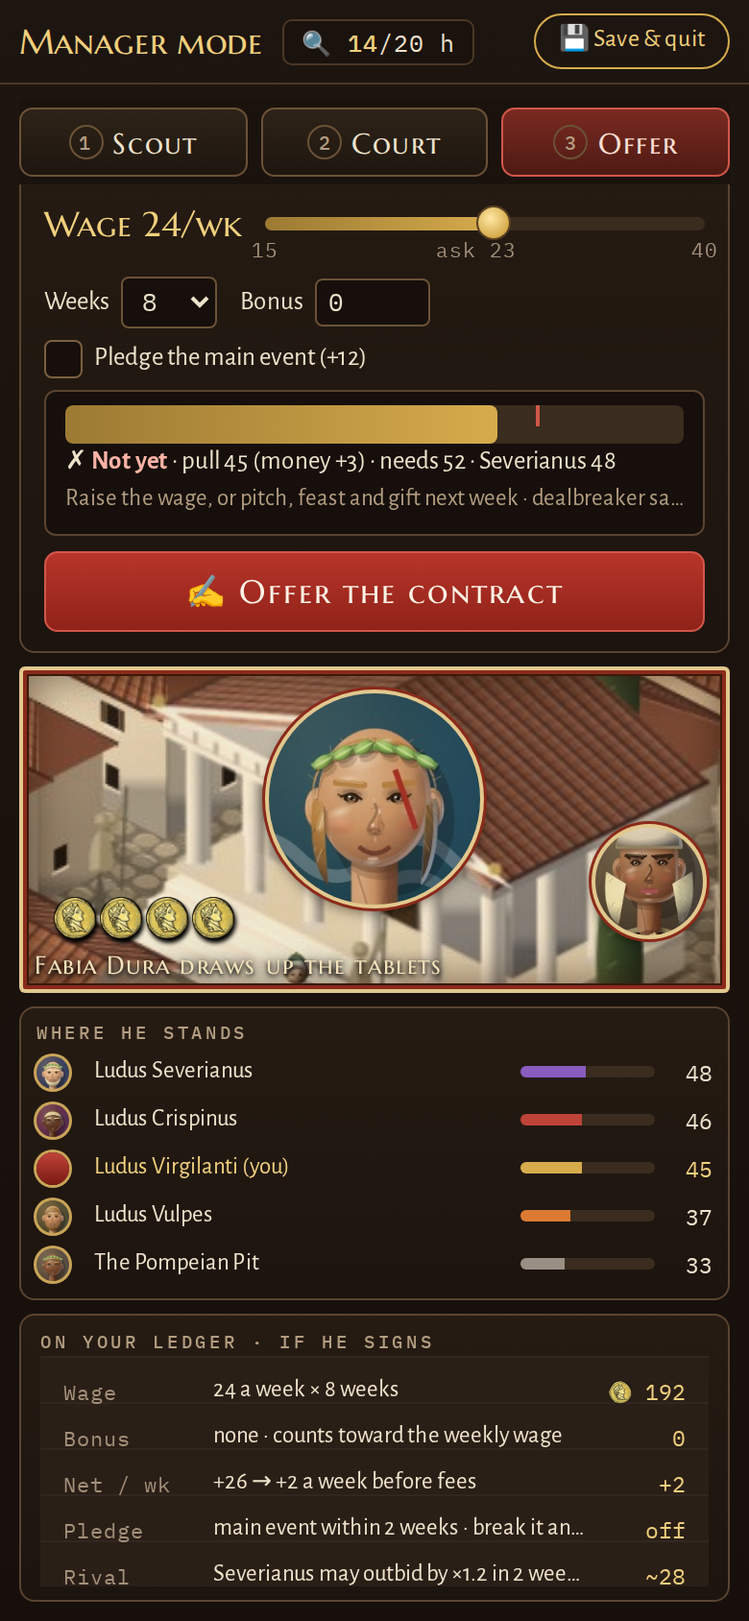
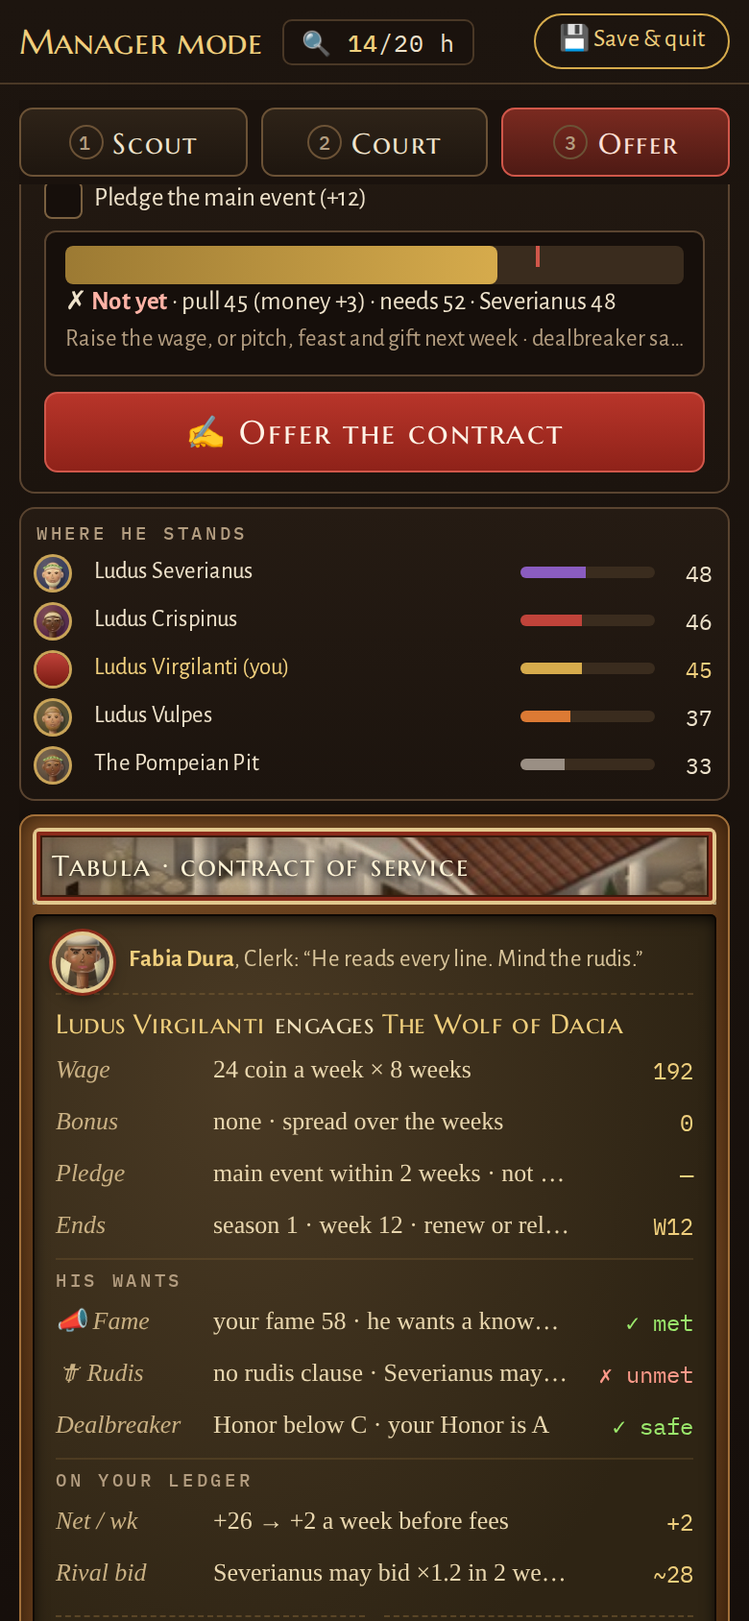
mock100: recruiting offer = contract tablet [skip ci]
Claude-Session: https://claude.ai/code/session_01BLtNGuDrMd265uhsDUPs5S

diff --git a/tools/plans/mock100/ludus.html b/tools/plans/mock100/ludus.html
@@ -5,6 +5,7 @@
 <!-- MOCK-UP ONLY (v1.0 plan, his PDF "mockludusmanager" 2026-10-09 = ludus_img/his_mock.png).
      Content = a real week-3 career (Ludus Crispinus, Capua; this week's games in Pompeii) captured by ludus_before.js.
      Tile art = the game's own room banner scenes (roomScene73 / roomScene / armoryScene96 / cityScene75) exported as SVG, cropped per tile.
+     Round 3: #week-b (no Fight Night card, parchment fills the column) · #advisors (the council room) · #mail-open (one letter read in full).
      States: #week (default, 4 tasks) · #bye (week 4, 6 tasks) · #mail (letters drawer) · #team-a (Your Team → today's Roster tab) ·
      #team-b (Your Team → one team hub with tabs; the rail loses Roster/Armory/Infirmary/Training Yard) · #rooms (the new scenes as room banners) · #phone.
      Round 2 (his answers D1–D7): tiles = one weekly job each, RICHER painted scenes (ludus_scenes.js) used as tile AND room banner.
@@ -138,7 +139,7 @@ body.s-phone #phoneFrame{display:flex;justify-content:center;padding:20px}
 .mailbtn b{font:700 10px var(--mono);background:#7a2219;color:#ffd9cf;border-radius:8px;padding:0 6px}
 .drawer{display:none;position:fixed;top:0;right:0;bottom:0;width:520px;z-index:30;background:#1d150f;border-left:1px solid #7a5d2a;box-shadow:-12px 0 30px rgba(0,0,0,.6);padding:14px 16px;overflow:auto}
 .scrim{display:none;position:fixed;inset:0;z-index:29;background:rgba(0,0,0,.45)}
-body.s-mail .drawer,body.s-mail .scrim{display:block}
+body.s-mail .drawer.d1,body.s-mail .scrim,body.s-mail-open .drawer.d2,body.s-mail-open .scrim{display:block}
 .drawer h3{display:flex;align-items:center;gap:8px;margin:0 0 10px;font:400 21px var(--display);color:var(--gold2)}
 .drawer h3 .x{margin-left:auto;width:30px;height:30px;border-radius:50%;border:1px solid var(--line2);display:grid;place-items:center;font-size:16px;color:var(--bone)}
 .lrow{display:grid;grid-template-columns:26px minmax(0,1fr) auto;align-items:center;gap:8px;background:var(--parch);color:var(--pink);border-radius:6px;border-left:4px solid #8c7a64;padding:6px 10px 6px 8px;margin-bottom:4px}
@@ -251,8 +252,56 @@ body:not(.s-team-a) .a-only{display:none!important}
 .optnote b{color:var(--gold2)}.optnote .pc{color:#9fd77e}.optnote .cn{color:#ff9a86}
 /* #rooms */
 .roomsv{display:none}
-body.s-rooms .app>.grid .main>*{display:none}
+body.s-rooms .app>.grid .main>*,body.s-advisors .app>.grid .main>*{display:none}
 body.s-rooms .roomsv{display:grid!important;gap:8px}
+body.s-advisors .advv{display:block!important}
+/* #week-b: no Fight Night card, the parchment fills the column */
+body.s-week-b .fncard{display:none}
+body.s-week-b .body{align-items:stretch}body.s-week-b .lcol{grid-template-rows:1fr}
+body.s-week-b .trow{padding:11px 4px}body.s-week-b .trow .ti{width:46px;height:46px;font-size:22px}body.s-week-b .trow .tx b{font-size:16.5px}
+body.s-week-b .trow .tx>span{font-size:13.5px}
+.nextwk{display:none;margin-top:10px;padding:8px 6px 0;border-top:1px dashed rgba(122,93,42,.45);font-size:13px;color:#5c4326}
+.nextwk b{color:#2a1708}
+body.s-week-b .nextwk{display:block}
+/* #advisors: the council room */
+.advv{display:none}
+.cgrid{display:grid;grid-template-columns:repeat(3,minmax(0,1fr));gap:10px;margin-top:12px}
+.adc{background:var(--panel2);border:1px solid var(--line3);border-radius:10px;padding:10px 12px;display:grid;grid-template-columns:62px minmax(0,1fr);gap:4px 12px}
+.adc>img{width:62px;height:62px;border-radius:50%;border:2px solid #b08a3c;grid-row:1/3}
+.adc .nm b{display:block;font:400 17px var(--display);color:var(--gold2)}
+.adc .nm small{font:700 10.5px var(--mono);letter-spacing:1.2px;text-transform:uppercase;color:var(--dim)}
+.adc .lv{display:flex;align-items:center;gap:6px;flex-wrap:wrap;font-size:12.5px;color:var(--muted)}
+.adc .lv .l{font:700 11px var(--mono);background:#3a2a18;border:1px solid #7a5d2a;color:var(--gold2);border-radius:9px;padding:0 7px}
+.adc .lv .pb{flex:1;min-width:60px;height:6px;border-radius:3px;background:#140f0b;overflow:hidden}.adc .lv .pb i{display:block;height:100%;background:var(--gold)}
+.adc .lv .tr{font:12px var(--body);color:var(--gold2);background:linear-gradient(#3a2a17,#2a1f17);border:1px solid #8a6a2c;border-radius:5px;padding:2px 8px;cursor:pointer}
+.adc .does{grid-column:1/-1;font-size:13px;color:var(--bone)}
+.adc .say{grid-column:1/-1;background:var(--parch);color:var(--pink);border-radius:6px;border-left:3px solid var(--gold);padding:6px 9px;font-size:13px;font-style:italic}
+.adc .say small{display:block;font-style:normal;font-size:11.5px;color:var(--pdim);margin-top:2px}
+.adc .say.new{box-shadow:0 0 0 1px rgba(160,120,40,.7) inset}.adc .say .nw{font:700 9.5px var(--mono);font-style:normal;background:#dcae42;color:#1a120c;border-radius:8px;padding:0 5px;margin-left:4px}
+.advnote{margin-top:8px;font-size:12.5px;color:var(--dim)}
+/* #mail-open: one letter read in full */
+.lfull{background:var(--parch);color:var(--pink);border-radius:8px;box-shadow:0 0 0 1px #9c8058 inset,0 4px 14px rgba(0,0,0,.4);padding:12px 14px;margin-bottom:10px;position:relative}
+.lfull .hd{display:flex;gap:10px;align-items:center}
+.lfull .seal{flex:none;width:46px;height:46px;border-radius:50%;background:radial-gradient(circle at 38% 34%,#b57ae0,#5a2a8a 70%);box-shadow:0 2px 3px rgba(0,0,0,.45),inset 0 0 0 4px rgba(0,0,0,.12);display:grid;place-items:center;font:400 18px var(--display);color:#efe0ff}
+.lfull .hd b{display:block;font:400 19px/1.15 var(--display);color:#2a1708}
+.lfull .hd small{font-size:12.5px;color:var(--pdim)}
+.lfull .due{margin-left:auto;align-self:flex-start;font:700 10px var(--mono);letter-spacing:.6px;text-transform:uppercase;background:#5c4316;color:#f6dd95;border-radius:9px;padding:2px 8px;white-space:nowrap}
+.lfull p{margin:9px 0;font-size:14.5px;line-height:1.45}
+.lfull .sig{font-style:italic;text-align:right;color:#5c4326;font-size:13.5px}
+.lfull .tr{display:grid;grid-template-columns:1fr 24px 1fr;gap:8px;align-items:center;margin:8px 0}
+.lfull .gc{background:rgba(255,255,255,.4);border:1px solid #c9b58c;border-radius:6px;padding:6px 9px;font-size:13.5px}
+.lfull .gc small{display:block;font:700 10px var(--mono);letter-spacing:1px;text-transform:uppercase;color:var(--pdim)}
+.lfull .gc b{color:#2a1708}
+.lfull .adv2{display:flex;gap:9px;align-items:center;background:rgba(255,255,255,.3);border-left:3px solid #b08a3c;border-radius:5px;padding:6px 9px;font-size:13px;font-style:italic;margin:8px 0}
+.lfull .adv2 img{width:38px;height:38px;border-radius:50%;border:2px solid #b08a3c;flex:none}
+.lfull .adv2 small{display:block;font-style:normal;font-size:11.5px;color:var(--pdim)}
+.lfull .acts{display:flex;gap:6px;justify-content:flex-end;flex-wrap:wrap;margin-top:8px}
+.lfull .acts .btn{background:#3a2a1a;color:#f6e7c6;border-color:#5a4026}
+.lfull .acts .btn.yes{background:linear-gradient(#2f5a1e,#1e3a12);border-color:#6fae4c}
+.lfull .acts .btn.no{background:linear-gradient(#7a2219,#4a140d);border-color:#c0433a}
+.lfull .acts .btn.file{background:transparent;color:#5c4326;border-color:#9c8058}
+.back{font-size:13px;color:var(--muted);margin-bottom:8px;cursor:pointer}
+@media (max-width:600px){.cgrid{grid-template-columns:1fr}.lfull .tr{grid-template-columns:1fr}.lfull .tr>span{display:none}.lfull .acts .btn{flex:1}}
 @media (max-width:600px){.tm{grid-template-columns:1fr}.slots{grid-template-columns:1fr}.lst .h{display:none}.fr{grid-template-columns:36px minmax(0,1fr) auto}.fr>:nth-child(n+4){display:none}.htabs{overflow-x:auto}.htabs span{padding:6px 10px;font-size:13px;white-space:nowrap}.htabs .keep{display:none}.rban{height:92px}.rban .tt b{font-size:20px}}
 </style></head>
 <body>
@@ -325,6 +374,7 @@ body.s-rooms .roomsv{display:grid!important;gap:8px}
       <div class="trow done"><span class="ck">✓</span><span class="ti">⚔</span><span class="tx"><b>Fill the Fight Night card</b><span>Undercard, Feature and Main in Pompeii carry your fighters</span></span><span class="cnt">3/3</span><span class="go">›</span></div>
       <div class="trow"><span class="ck"></span><span class="ti">🏋</span><span class="tx"><b>Set the week's training</b><span>Drills for 5 fighters, 10 hours in the Training Yard</span></span><span class="cnt">0/10 h</span><span class="go">›</span></div>
       <div class="ok">Already in order: <b>✓</b> no untreated wounds · <b>✓</b> no contract runs out · <b>✓</b> 5 on the roster · <b>✓</b> no perk points</div>
+      <div class="nextwk">📅 <b>Coming up:</b> week 4 is a bye (no games) · week 5 Fight Night at home in Capua · contracts: Aper the Gilded ends in 3 weeks</div>
      </div>
      <!-- week 4, bye: 6 tasks -->
      <div class="bye-only">
@@ -391,6 +441,38 @@ body.s-rooms .roomsv{display:grid!important;gap:8px}
      <div style="display:flex;gap:6px;margin-top:10px;flex-wrap:wrap"><button class="btn">Bench</button><button class="btn">Lend</button><button class="btn">⚒ Dress</button><button class="btn">🏋 Drills</button></div></div>
    </div>
 
+
+   <!-- ===== #advisors: the council room ===== -->
+   <div class="advv">
+    <div class="rban"><div class="bg" data-sc="council" data-mode="banner"></div><div class="tt"><b>🏛 The Council</b><span>six voices, one seal — your advisors for life</span><div class="chips"><i>2 new counsels</i><i>Recruiter Lv 3</i></div></div></div>
+    <div class="cgrid">
+     <div class="adc"><img src="ludus_img/face_0.png" alt=""><div class="nm"><b>Kaeso Ahenobarbus</b><small>Consilium</small></div>
+      <div class="lv"><span class="l">Lv 3</span><span class="pb"><i style="width:0%"></i></span>seasons in the top four 0/1</div>
+      <div class="does">Strategy: when to fight, when to hold back.</div>
+      <div class="say new">"Pompeii is stacked with veterans. Send the ones who need the coin, keep the Fox fresh for Capua."<small>Counsel for Pompeii · week 3<span class="nw">NEW</span></small></div></div>
+     <div class="adc"><img src="ludus_img/face_1.png" alt=""><div class="nm"><b>Gnaeus Cicatrix</b><small>Recruiter</small></div>
+      <div class="lv"><span class="l">Lv 3</span><span class="pb"><i style="width:0%"></i></span>signings 0/5 <span class="tr">⬆ Train · <img class="coin" src="../../../assets/coin.webp" alt="">120</span></div>
+      <div class="does">Scouts free agents: 20 hours a week, grades sharper with each level.</div>
+      <div class="say new">"Galba Bone-Breaker. Soldier, ~B+, asks 38 a week. I'd stake my eye on him."<small>Pick of the week · week 3<span class="nw">NEW</span></small></div></div>
+     <div class="adc"><img src="ludus_img/face_2.png" alt=""><div class="nm"><b>Quintus Celer</b><small>Doctore</small></div>
+      <div class="lv"><span class="l">Lv 3</span><span class="pb"><i style="width:0%"></i></span>rating band-ups 0/10</div>
+      <div class="does">Drills, growth and the Training Yard.</div>
+      <div class="say">"Hostus is one push from Strength 80. Give him Iron this week."<small>Week II in review · week 3</small></div></div>
+     <div class="adc"><img src="ludus_img/face_3.png" alt=""><div class="nm"><b>Septimus Dentatus</b><small>Medicus</small></div>
+      <div class="lv"><span class="l">Lv 3</span><span class="pb"><i style="width:0%"></i></span>wounds healed 0/8</div>
+      <div class="does">Wounds, rest and the ward.</div>
+      <div class="say">"Aper is worn. One more hard week and I'll be stitching him."<small>A risk letter · week 2</small></div></div>
+     <div class="adc"><img src="ludus_img/face_4.png" alt=""><div class="nm"><b>Marcia Sabina</b><small>Clerk</small></div>
+      <div class="lv"><span class="l">Lv 3</span><span class="pb"><i style="width:19%"></i></span>treasury 288/1500</div>
+      <div class="does">Purse, wages and contracts.</div>
+      <div class="say">"We lose 56 a week. Two weeks of runway, dominus. Win something."<small>The Quaestor's ledger · week 3</small></div></div>
+     <div class="adc"><img src="ludus_img/face_5.png" alt=""><div class="nm"><b>Nonus Flamma</b><small>Barracks master</small></div>
+      <div class="lv"><span class="l">Lv 4</span><span class="pb"><i style="width:17%"></i></span>weeks without an unhappy exit 2/12</div>
+      <div class="does">The fighters' moods and requests.</div>
+      <div class="say">"Three of them are begging for the sand. Let them, or hear about it."<small>The eager · week 3</small></div></div>
+    </div>
+    <div class="advnote">Levels rise by what each advisor achieves; only the Recruiter can also be trained with coin (his level sharpens the grades).</div>
+   </div>
    <!-- ===== #rooms: the same scenes atop each room ===== -->
    <div class="roomsv">
     <div class="rban"><div class="bg" data-sc="team" data-mode="banner"></div><div class="tt"><b>🛡 Your Team</b><span>the men and women who carry your name onto the sand</span></div></div>
@@ -406,7 +488,7 @@ body.s-rooms .roomsv{display:grid!important;gap:8px}
 
 <!-- letters drawer (#mail) -->
 <div class="scrim"></div>
-<div class="drawer">
+<div class="drawer d1">
  <h3>📬 Letters <span style="font:13px var(--body);color:var(--muted)">5 unread · answers live in Weekly tasks</span><span class="x">✕</span></h3>
  <div class="lopen"><div class="adv"><img src="ludus_img/face_0.png" alt=""><div><b class="t">Counsel for Pompeii: hold our fighters back</b><div style="font-size:12.5px;color:var(--pdim)">Kaeso Ahenobarbus, the Consilium · week 3</div></div></div>
   <p>The Pompeii card is stacked with veterans this week. Send the ones who need the coin, keep the Fox fresh for Capua.</p></div>
@@ -419,8 +501,30 @@ body.s-rooms .roomsv{display:grid!important;gap:8px}
  <div class="past">▸ Acta Diurna · week II · three bouts in Capua, no deaths</div>
 </div>
 
+<div class="drawer d2">
+ <h3>📬 Letters <span style="font:13px var(--body);color:var(--muted)">4 unread</span><span class="x">✕</span></h3>
+ <div class="back">‹ All letters</div>
+ <div class="lfull">
+  <div class="hd"><span class="seal">S</span><div><b>A trade offer from Ludus Severianus</b><small>Domitia Severa, lanista · Capua · week 3</small></div><span class="due">answer by week 4</span></div>
+  <p>Crispus — your Lupercus has luck but no future in your colours. I'll give you Pompeia Ferreus for him, and twenty-five coin to soften the parting. She fights hard and eats little.</p>
+  <div class="tr"><div class="gc"><small>They want</small><b>Lupercus the Lucky</b> · Veteranus · grade B · 24/wk</div><span>⇄</span><div class="gc"><small>You get</small><b>Pompeia Ferreus</b> · Hoplomachus · grade B · 21/wk + <img class="coin" src="../../../assets/coin.webp" alt="">25</div></div>
+  <div class="sig">— D. Severa, by her own hand</div>
+  <div class="adv2"><img src="ludus_img/face_4.png" alt=""><span>"A fair swap and three coin a week cheaper. Lupercus is on no card this week."<small>Marcia Sabina, your Clerk</small></span></div>
+  <div class="acts"><button class="btn file">🗄 File it away</button><button class="btn no">✖ Decline</button><button class="btn yes">✔ Accept</button></div>
+ </div>
+ <div class="sec">Unread · 4</div>
+ <div class="lrow unread"><span>📅</span><span class="tx"><b>Week II in review</b> <span class="f">· from your clerk</span></span><span class="new">NEW</span></div>
+ <div class="lrow unread"><span>🏛</span><span class="tx"><b>Counsel for Pompeii: hold our fighters back</b> <span class="f">· the Consilium</span></span><span class="new">NEW</span></div>
+ <div class="lrow unread"><span>📊</span><span class="tx"><b>Top of the table</b> <span class="f">· finish 1st for 120 and the Superbus</span></span><span class="new">NEW</span></div>
+ <div class="lrow unread"><span>🏛</span><span class="tx"><b>Nonus Flamma has earned the fourth laurel</b> <span class="f">· Barracks master</span></span><span class="new">NEW</span></div>
+ <div class="sec">Read this week</div>
+ <div class="lrow"><span>🏛</span><span class="tx"><b>The Quaestor's ledger</b> <span class="f">· founding treasury +320 · sealed</span></span><span class="f" style="font:11px var(--mono);color:var(--pdim)">wk 3</span></div>
+ <div class="lrow"><span>✝</span><span class="tx"><b>The Christians keep together</b> <span class="f">· your barracks</span></span><span class="f" style="font:11px var(--mono);color:var(--pdim)">wk 3</span></div>
+ <div class="sec">Past letters · 12 kept</div>
+ <div class="past">▸ Acta Diurna · week II · three bouts in Capua, no deaths<br>▸ The Quaestor's ledger · week 2 · sealed<br>▸ Welcome to Ludus Crispinus · week 1</div>
+</div>
 <div id="phoneFrame"><iframe title="phone" src="ludus.html#week"></iframe></div>
-<div class="statebar"><a href="#week">#week</a><a href="#bye">#bye</a><a href="#mail">#mail</a><a href="#team-a">#team-a</a><a href="#team-b">#team-b</a><a href="#rooms">#rooms</a><a href="#phone">#phone</a></div>
+<div class="statebar"><a href="#week">#week</a><a href="#week-b">#week-b</a><a href="#bye">#bye</a><a href="#mail">#mail</a><a href="#mail-open">#mail-open</a><a href="#advisors">#advisors</a><a href="#team-a">#team-a</a><a href="#team-b">#team-b</a><a href="#rooms">#rooms</a><a href="#phone">#phone</a></div>
 <script src="ludus_scenes.js"></script>
 <script>
 document.querySelectorAll('[data-sc]').forEach(e=>e.innerHTML=SCENE99(e.dataset.sc,e.dataset.mode||'tile'));
@@ -428,7 +532,7 @@ function st(){const h=(location.hash||'#week').slice(1);document.body.className=
  document.querySelectorAll('.rail .t.a-on').forEach(t=>t.classList.toggle('on',h==='team-a'))}
 addEventListener('hashchange',st);st();
 document.querySelector('.mailbtn').onclick=()=>location.hash='#mail';
-document.querySelector('.scrim').onclick=document.querySelector('.drawer .x').onclick=()=>location.hash='#week';
+document.querySelector('.scrim').onclick=()=>location.hash='#week';document.querySelectorAll('.drawer .x').forEach(x=>x.onclick=()=>location.hash='#week');document.querySelector('.d2 .back').onclick=()=>location.hash='#mail';document.querySelectorAll('.tile')[4].onclick=()=>location.hash='#advisors';
 document.querySelectorAll('.tile')[0].onclick=()=>location.hash='#team-b';
 </script>
 </body></html>

diff --git a/tools/plans/mock100/recruit3.html b/tools/plans/mock100/recruit3.html
@@ -191,9 +191,36 @@ body.ph .hrs .sub{display:none}
 body.ph .step small{display:none}body.ph .step{font-size:15px;gap:5px}
 body.ph .pips{display:none}
 .pmeta span{overflow:hidden;text-overflow:ellipsis;min-width:0}body.ph .pmeta span:last-child{display:none}
-body.ph .offr .oform{flex-wrap:wrap;height:auto;row-gap:6px}body.ph .wage .big{font-size:18px}
+body.ph .off .oform{flex-wrap:wrap;height:auto;row-gap:6px}body.ph .wage .big{font-size:18px}
 body.ph .ban .hrb{display:none}
 body.ph .sign{min-height:170px}
+
+/* offer · contract tablet (round 3b) */
+.offr3{display:grid;grid-template-columns:minmax(0,1.25fr) minmax(0,1fr);gap:7px;min-height:532px}
+.ocol{display:flex;flex-direction:column;gap:7px;min-width:0}
+.tab3{display:flex;flex-direction:column;border-radius:8px;padding:7px;background:linear-gradient(135deg,#7a4e26,#5a3618 40%,#6e4420 70%,#4a2c12);box-shadow:inset 0 0 0 1px #a2703a,inset 0 0 12px #2a1606,0 4px 12px #0008;min-width:0}
+.tstrip{height:40px;flex:none;border-radius:4px 4px 0 0}
+.tstrip .pic{background:url(img3/m_temple.jpg) center 45%/cover}
+.tt3{position:absolute;z-index:5;left:10px;top:10px;font:400 15px var(--display);letter-spacing:.06em;color:#fff3d6;text-shadow:0 1px 3px #000,0 0 8px #000}
+.wax{flex:1;margin-top:5px;border-radius:3px;padding:8px 12px 10px;background:radial-gradient(ellipse at 30% 20%,#4a3a24,#2e2414 70%);box-shadow:inset 0 2px 8px #000c,inset 0 0 0 1px #1a1008;color:#e8d6ae;display:flex;flex-direction:column}
+.clerk{display:grid;grid-template-columns:30px minmax(0,1fr);gap:8px;align-items:center;height:34px;font-size:12.5px;color:#d8c49a;border-bottom:1px dashed #8a6a3a66;margin-bottom:4px}
+.clerk .rd{width:28px;height:28px}
+.clerk b{color:#f0cf7d;font-weight:600}
+.tparty{font:400 14px var(--display);color:#f3e3bd;height:22px;line-height:22px;letter-spacing:.02em}
+.tparty b{color:#f0cf7d;font-weight:400}
+.tsub{font:500 9.5px var(--mono);letter-spacing:.14em;text-transform:uppercase;color:#b39d80;height:20px;line-height:22px;border-top:1px solid #8a6a3a44;margin-top:3px}
+.trow{display:grid;grid-template-columns:84px minmax(0,1fr) 62px;gap:8px;align-items:center;height:27px;font-size:13px;font-family:Georgia,serif}
+.trow span:first-child{color:#c9b083;font-style:italic}
+.trow span:last-child{text-align:right;font:12px var(--mono);color:#f0cf7d;white-space:nowrap}
+.trow.ok span:last-child{color:#9be86c}.trow.no span:last-child{color:#ff9a8a}
+.seals{margin-top:auto;padding-top:8px;display:grid;grid-template-columns:minmax(0,1fr) minmax(0,1fr);gap:10px}
+.seal{display:flex;align-items:center;gap:8px;height:52px;border-top:1px dashed #8a6a3a77;padding-top:6px;min-width:0}
+.seal span{flex:none;width:42px;height:42px;border-radius:50%;display:grid;place-items:center;font:400 15px var(--display)}
+.seal.mine span{background:radial-gradient(circle at 38% 32%,#d84a3a,#8a1a12 70%);color:#ffd8c8;box-shadow:0 2px 4px #000a,inset 0 0 0 3px #a3281f,inset 0 0 0 5px #6a120c;opacity:.55}
+.seal.his span{border:2px dashed #8a6a3a;color:#8a6a3a}
+.seal>*{min-width:0}.seal small{font-size:11.5px;color:#b39d80;white-space:nowrap;overflow:hidden;text-overflow:ellipsis}
+body.ph .offr3{grid-template-columns:minmax(0,1fr);min-height:0}
+body.ph .trow{grid-template-columns:74px minmax(0,1fr) 56px}
 </style></head>
 <body class="s-scout">
 <div class="app">
@@ -270,23 +297,39 @@ body.ph .sign{min-height:170px}
 
    <!-- ③ OFFER -->
    <div class="pane offer">
-    <div class="offr">
+    <div class="offr3">
+     <div class="ocol">
      <section class="panel off"><div class="phd">The contract</div>
       <div class="wage"><span class="big">Wage 24/wk</span><div class="slider"><i></i><b></b><u style="left:0">15</u><u style="left:48%">ask 23</u><u style="left:100%">40</u></div></div>
       <div class="oform"><label>Weeks <select class="tin" style="width:auto"><option>4</option><option selected>8</option><option>12</option></select></label><label>Bonus <input class="tin" value="0"></label><label title="Pledge him the main event within 2 weeks: +12 interest now"><span class="ck"></span> Pledge the main event (+12)</label></div>
       <div class="verdict"><div class="vbar"><i></i><u></u></div><div>✗ <b>Not yet</b> · pull 45 (money +3) · needs 52 · Severianus 48</div><p>Raise the wage, or pitch, feast and gift next week · dealbreaker safe</p></div>
       <button class="obtn">✍ Offer the contract</button>
      </section>
-     <div class="fr sign"><div class="pic"></div><span class="rd big"></span><span class="rd cl" title="Fabia Dura, your Clerk"></span><span class="coins"><i></i><i></i><i></i><i></i></span><span class="cap">Fabia Dura draws up the tablets</span></div>
-    </div>
-    <div class="offr">
-     <section class="panel" style="padding:6px 8px"><div class="phd">Where he stands</div><div id="suit2"></div></section>
-     <section class="panel lg"><div class="phd">On your ledger · if he signs</div>
-      <div class="row"><span>Wage</span><span class="one">24 a week × 8 weeks</span><span><span class="coin"></span> 192</span></div>
-      <div class="row"><span>Bonus</span><span class="one">none · counts toward the weekly wage</span><span>0</span></div>
-      <div class="row"><span>Net / wk</span><span class="one">+26 → +2 a week before fees</span><span>+2</span></div>
-      <div class="row"><span>Pledge</span><span class="one">main event within 2 weeks · break it and Honor pays</span><span>off</span></div>
-      <div class="row"><span>Rival</span><span class="one">Severianus may outbid by ×1.2 in 2 weeks</span><span>~28</span></div></section>
+     <section class="panel" style="padding:6px 8px;flex:1"><div class="phd">Where he stands</div><div id="suit2"></div></section>
+     </div>
+     <!-- the CONTRACT TABLET: exactly what he signs -->
+     <section class="tab3">
+      <div class="fr tstrip"><div class="pic"></div><span class="tt3">Tabula · contract of service</span></div>
+      <div class="wax">
+       <div class="clerk"><span class="rd" style="background-image:url(img3/r3_c_clerk.png)"></span><span class="one"><b>Fabia Dura</b>, Clerk: “He reads every line. Mind the rudis.”</span></div>
+       <div class="tparty one"><b>Ludus Virgilanti</b> engages <b>The Wolf of Dacia</b></div>
+       <div class="trow"><span>Wage</span><span class="one">24 coin a week × 8 weeks</span><span>192</span></div>
+       <div class="trow"><span>Bonus</span><span class="one">none · spread over the weeks</span><span>0</span></div>
+       <div class="trow"><span>Pledge</span><span class="one">main event within 2 weeks · not pledged</span><span>—</span></div>
+       <div class="trow"><span>Ends</span><span class="one">season 1 · week 12 · renew or release</span><span>W12</span></div>
+       <div class="tsub">His wants</div>
+       <div class="trow ok"><span>📣 Fame</span><span class="one">your fame 58 · he wants a known house</span><span>✓ met</span></div>
+       <div class="trow no"><span>🗡 Rudis</span><span class="one">no rudis clause · Severianus may offer one</span><span>✗ unmet</span></div>
+       <div class="trow ok"><span>Dealbreaker</span><span class="one">Honor below C · your Honor is A</span><span>✓ safe</span></div>
+       <div class="tsub">On your ledger</div>
+       <div class="trow"><span>Net / wk</span><span class="one">+26 → +2 a week before fees</span><span>+2</span></div>
+       <div class="trow"><span>Rival bid</span><span class="one">Severianus may bid ×1.2 in 2 weeks</span><span>~28</span></div>
+       <div class="seals">
+        <div class="seal mine"><span>LV</span><small>your seal · on Offer</small></div>
+        <div class="seal his"><span>?</span><small>his seal · when he accepts</small></div>
+       </div>
+      </div>
+     </section>
     </div>
    </div>
   </div></main>

diff --git a/tools/plans/mock100/NOTES-ludus.md b/tools/plans/mock100/NOTES-ludus.md
@@ -75,3 +75,9 @@ Shots: `ludus_week_1440/390`, `ludus_bye_1440/390`, `ludus_mail_1440`, `ludus_te
 - **D3: as many tasks as needed**, progress N/M. `#week` has 4 tasks (1/4; drills and hours merged into "Set the week's training"). When the
   list is short, the left column shows a "This Fight Night" card (day, bout, event, your fighter, fatigue) under it. `#bye` has 6 (0/6).
 - **D4a**: letters drawer, as before. **D6a**: GEM/DUD = 2+ grades off on Overall. **D7a**: the reveal plays by itself (signing.html unchanged).
+
+## ROUND 3 (2026-10-11)
+- `#week-b`: like `#week` but without the "This Fight Night" card. The parchment stretches to the tiles' height, the rows get roomier, and a dashed "Coming up" line fills the gap (next week's bye, next Fight Night, a contract ending). Compare with `#week`.
+- `#advisors`: the council room that opens from the Advisors tile. The painted council-hall banner sits on top, then a 3×2 grid of cards with the real council83 faces. Each card has the name, role, a level badge with a progress bar toward the next level, ⬆ Train on the Recruiter only (coin), what the advisor does in one line, and their latest advice as a parchment quote (NEW when unread).
+- `#mail-open`: the 📬 drawer with one letter read in full: the sender's wax seal, title, an "answer by" deadline, the body, the trade boxes and a signature. Underneath, the Clerk's face gives her advice, then File it away / Decline / Accept. Below that come Unread, Read this week and Past letters. "‹ All letters" goes back to `#mail`.
+Shots: `ludus_week-b_1440/390`, `ludus_advisors_1440/390`, `ludus_mail-open_1440/390`.

diff --git a/tools/plans/mock100/NOTES-recruit.md b/tools/plans/mock100/NOTES-recruit.md
@@ -93,3 +93,9 @@ Layout: a compact top bar, rail and list (34 px rows), and a 62 px fresco banner
 - Offer: the contract + a signing fresco, then Where he stands + On your ledger.
 - Every label is one line; ellipsis + hover where needed.
 - Some text in the new panels is made up for the mock (e.g. "On your ledger"); the numbers there are not computed.
+- **Round 3b (Offer):** the decorative signing fresco is replaced by the CONTRACT TABLET (`.tab3`): a wooden-framed wax tabula with a slim temple-fresco header strip.
+  - Clerk Fabia Dura's face and one line, then the parties.
+  - Wage × weeks, bonus, pledge clause and end week.
+  - His wants met or unmet (Fame ✓, Rudis ✗) and the dealbreaker.
+  - The ledger lines (net a week, rival bid), and two seal spots: yours (LV, pressed on Offer) and his (empty until he accepts).
+  - The separate "On your ledger" panel is folded into it. "Where he stands" moved under the contract, so the page has no dead area at 1440.
